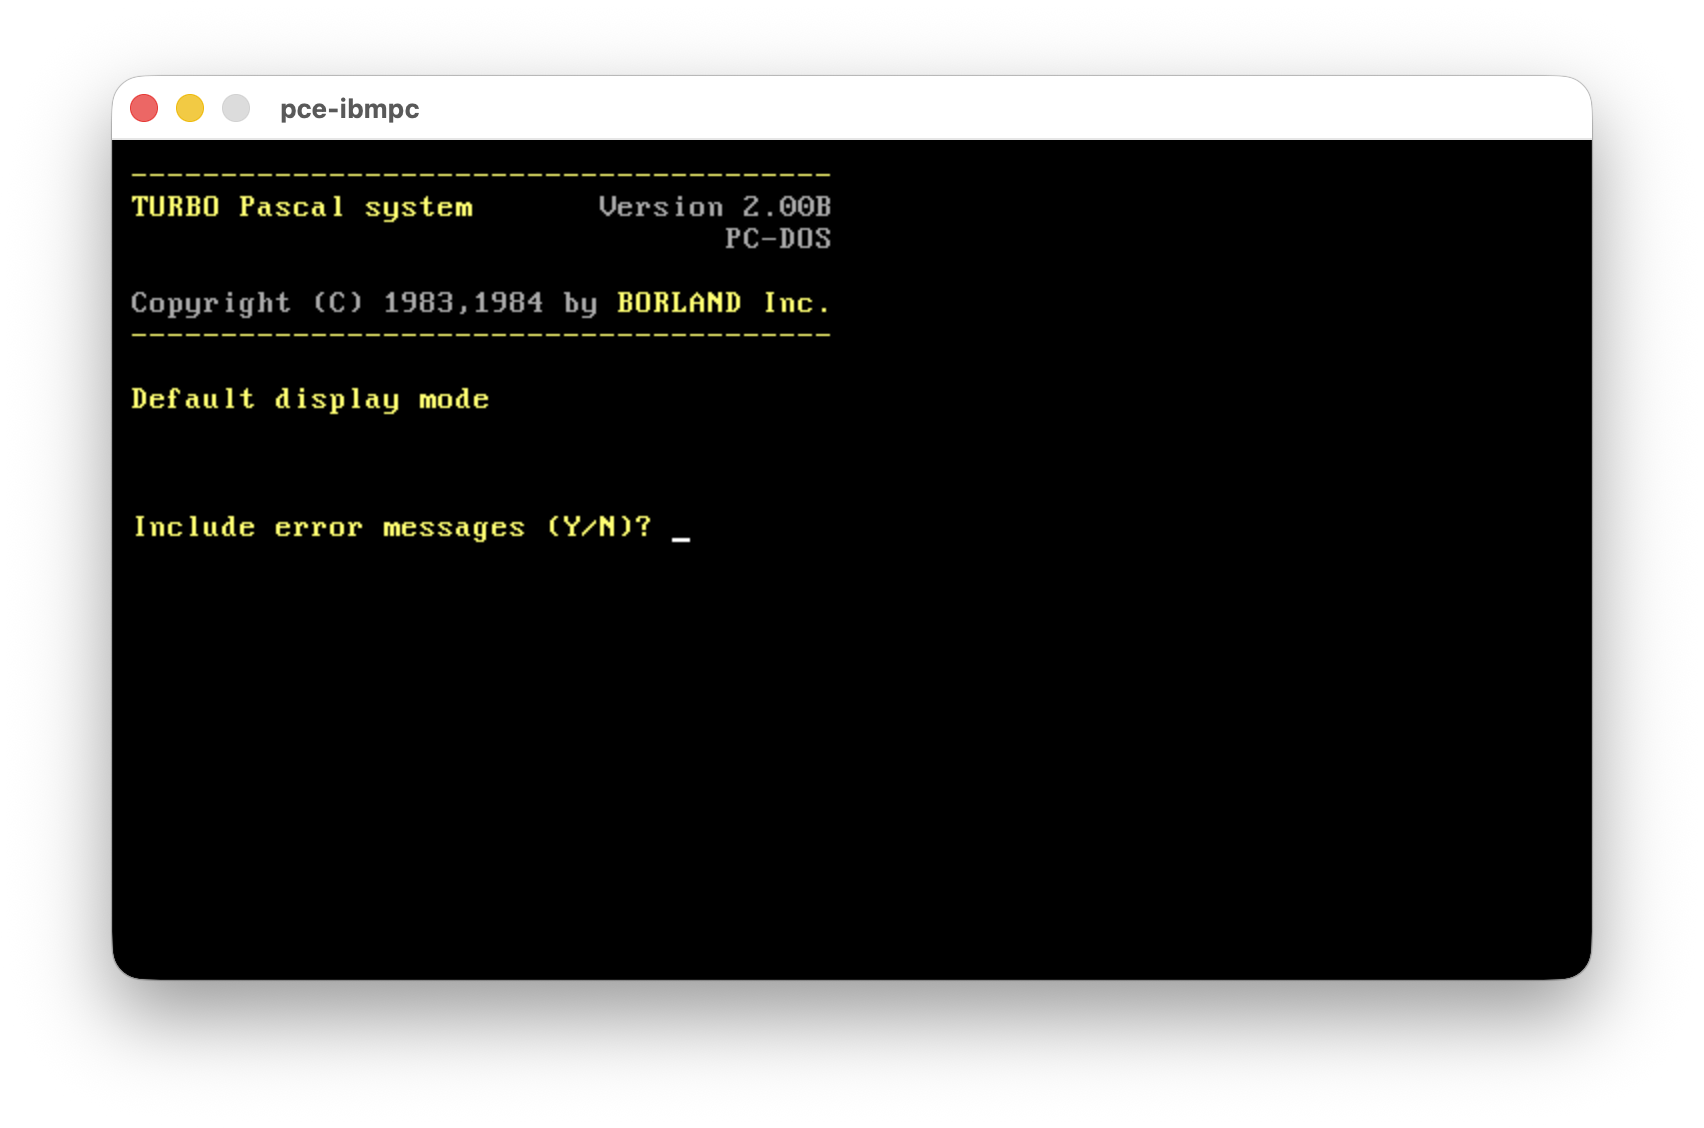
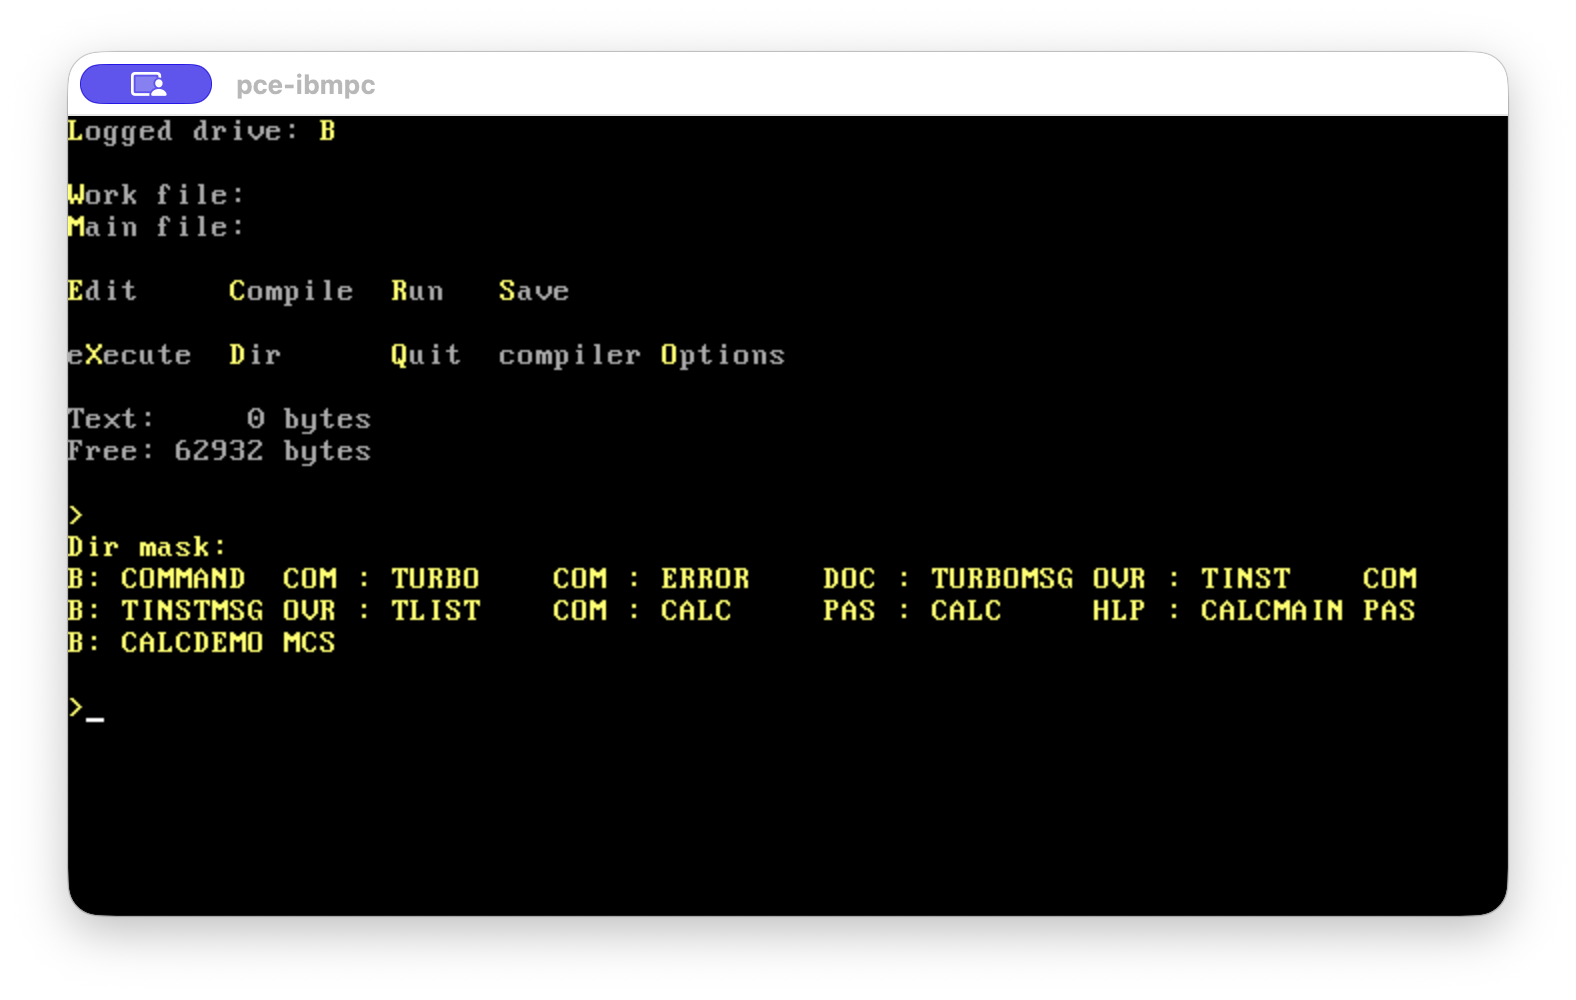
switch to turbo pascal 1.0

diff --git a/README.md b/README.md
@@ -36,7 +36,7 @@ Each variant builds on top of `*_base.img`.
 | `pcdos_dist.img` | PC-DOS | Base + the original PC-DOS 1.1 distribution tools and the IBM BASIC sample programs |
 | `pcdos_full.img` | PC-DOS | Base + distribution tools, `masm.exe`/`link.exe`/`cref.exe`/`lib.exe`, `basic.com`/`basica.com` and the samples (`asm.com`, `trans.com`, `hex2bin.com`, `mem.com`, `hello.asm`/`hello.bas`, `graph.bas`, `ballc.bas`/`ballc.com`) |
 | `pcdos_diag.img` | PC-DOS | Base + a small diagnostic set (`chkdsk.com`, `debug.com`, `edlin.com` rebuilt from source, `mem.com`) |
-| `turbo.img` | PC-DOS | Base + Turbo Pascal 2.00B (see [Turbo Pascal](#turbo-pascal) below) |
+| `turbo.img` | PC-DOS | Base + Turbo Pascal 1.00A (see [Turbo Pascal](#turbo-pascal) below) |
 | `msdos_base.img` | MS-DOS | `io.sys`, `msdos.sys`, `command.com` only |
 | `msdos_dist.img` | MS-DOS | Base + the MS-DOS 1.25 style tool set and the SCP tools (`asm.com`, `hex2bin.com`, `trans.com`) |
 | `msdos_full.img` | MS-DOS | Base + tools, assembler chain, MS-BASIC/GW-BASIC and the samples (`hello.asm`/`hello.bas`, `graph.bas`, `ballc.com`) |
@@ -128,11 +128,11 @@ restored on `Q`.
 
 ### Turbo Pascal
 
-Turbo Pascal 2.00B starting up on the system:
+Turbo Pascal 1.00A starting up on the system:
 
-![Turbo Pascal 2.00B startup](images/turbo.png)
+![Turbo Pascal 1.00A startup](images/turbo.png)
 
-`turbo.img` (built from `turbo/`) carries Turbo Pascal 2.00B on top of `pcdos_base.img`:
+`turbo.img` (built from `turbo/`) carries Turbo Pascal 1.00A on top of `pcdos_base.img`:
 
 | Files | Description |
 |-------|-------------|
@@ -184,7 +184,7 @@ Microsoft EDLIN 1.02.
 - https://github.com/tsupplis/pcdos11-hacking/blob/master/LICENSE.md
 - https://github.com/microsoft/MS-DOS/blob/master/LICENSE.md
 
-Turbo Pascal 2.00B (`turbo/`, [Turbo Pascal](#turbo-pascal) section) is not covered by the MIT
+Turbo Pascal 1.00A (`turbo/`, [Turbo Pascal](#turbo-pascal) section) is not covered by the MIT
 license above: it is proprietary software, distributed here under Borland/Embarcadero's
 [Turbo Pascal museum program](https://www.embarcadero.com/free-tools/turbo-pascal), which makes
 it available free of charge for personal/non-commercial use.
